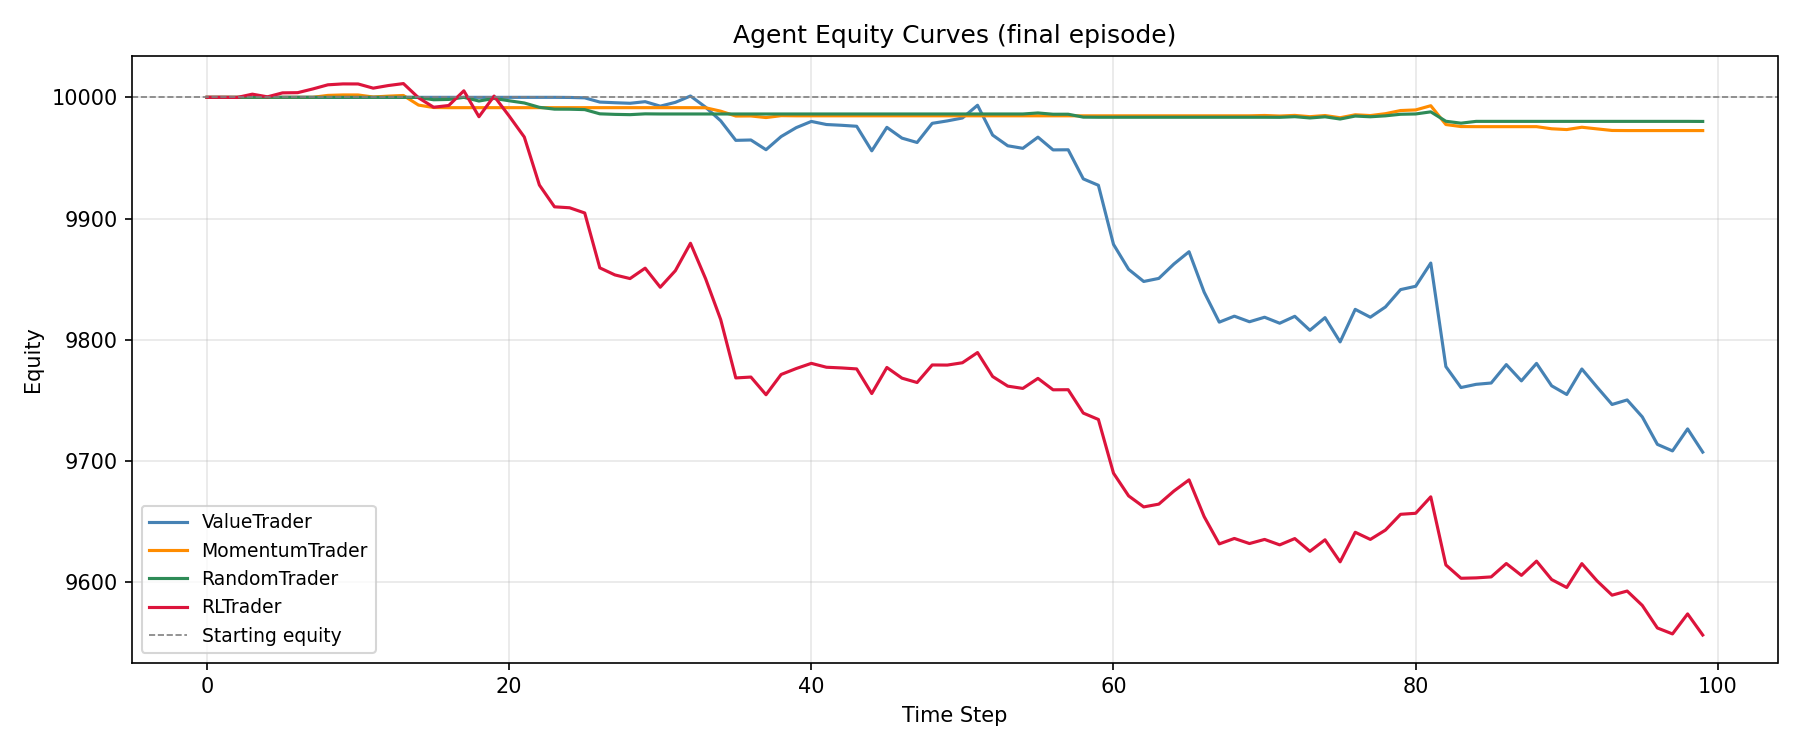
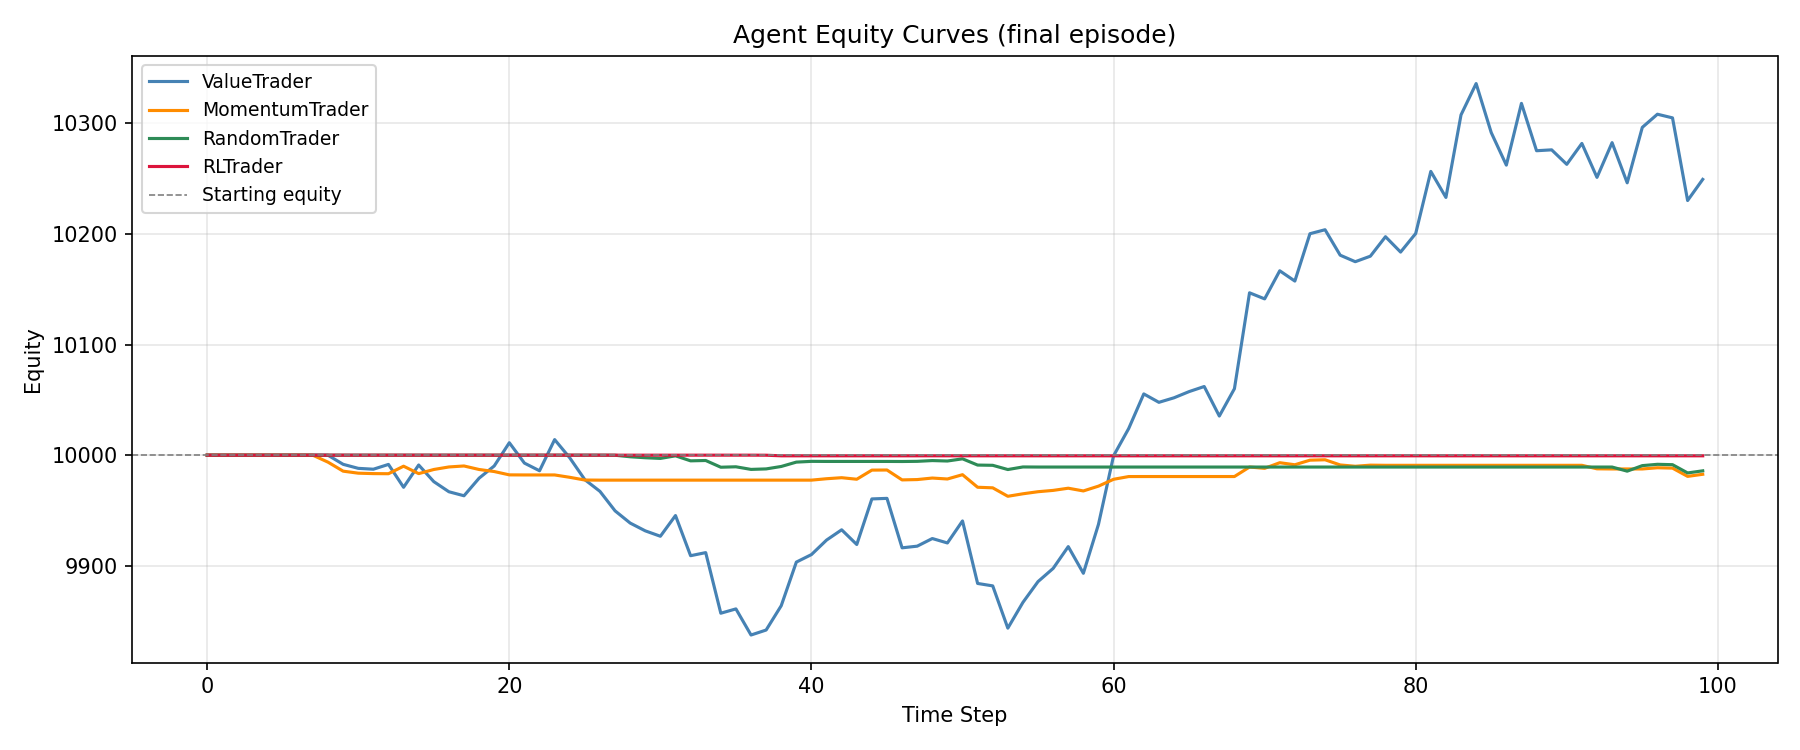
Introduce target network for stable Q-value updates
Implement a target network in the ReinforcementLearningTrader for stable Q-value updates, incorporating Polyak averaging and updating the replay step counter.

Replit-Commit-Author: Agent
Replit-Commit-Session-Id: 3826bf3c-e3fd-4317-b321-61e418fea702
Replit-Commit-Checkpoint-Type: full_checkpoint
Replit-Commit-Event-Id: 96b4a8b2-36d8-47bc-8ea9-22d3b7311bb9
Replit-Helium-Checkpoint-Created: true

diff --git a/project/agents/rl_agent.py b/project/agents/rl_agent.py
@@ -25,6 +25,14 @@ class ReinforcementLearningTrader(TraderAgent):
         self.feature_dim = self.FEATURE_DIM
         self.weights = {a: [0.0] * self.feature_dim for a in self.actions}
 
+        # Target network — same shape as main weights, updated slowly.
+        # TD targets are computed from target_weights so they are stable
+        # across consecutive updates (core DQN idea).
+        self.target_weights = {a: w[:] for a, w in self.weights.items()}
+        self.target_update_tau = 0.01       # Polyak rate for target network
+        self.target_update_interval = 1     # update every N replay steps
+        self.replay_steps = 0               # cumulative replay step counter
+
         # Learning hyper-parameters
         self.alpha = 0.01   # learning rate (smaller than tabular — LFA is noisier)
         self.gamma = 0.95   # discount factor
@@ -180,12 +188,23 @@ class ReinforcementLearningTrader(TraderAgent):
 
     def q_value(self, state_vec, action):
         """
-        Compute Q(s, a) = w_a · x(s) via dot product.
+        Compute Q(s, a) = w_a · x(s) via dot product (live network).
 
         state_vec must be the output of state_to_vector() — a plain list of
         floats of length self.feature_dim.
         """
         w = self.weights[action]
+        return sum(w[i] * state_vec[i] for i in range(self.feature_dim))
+
+    def target_q_value(self, state_vec, action):
+        """
+        Compute Q(s, a) using the target network weights.
+
+        Used exclusively for building TD targets in update_q() so that the
+        bootstrap value is not moving during the weight update — this is the
+        stabilisation mechanism from DQN.
+        """
+        w = self.target_weights[action]
         return sum(w[i] * state_vec[i] for i in range(self.feature_dim))
 
     # ------------------------------------------------------------------
@@ -278,6 +297,7 @@ class ReinforcementLearningTrader(TraderAgent):
         for prev_state, action, reward, new_state in batch:
             self.update_eligibilities(prev_state, action)
             self.update_q(prev_state, action, reward, new_state)
+            self.replay_steps += 1
 
     # ------------------------------------------------------------------
     # Linear Q(λ) weight update
@@ -311,7 +331,7 @@ class ReinforcementLearningTrader(TraderAgent):
         s2_vec = self.state_to_vector(new_state)
 
         current_q = self.q_value(s_vec, action)
-        max_next_q = max(self.q_value(s2_vec, a) for a in self.actions)
+        max_next_q = max(self.target_q_value(s2_vec, a) for a in self.actions)
 
         td_target = reward + self.gamma * max_next_q
         soft_target = (1.0 - self.tau) * current_q + self.tau * td_target
@@ -324,3 +344,11 @@ class ReinforcementLearningTrader(TraderAgent):
             step = self.alpha * td_error * e
             for i in range(self.feature_dim):
                 w[i] += step * s_vec_e[i]
+
+        # Soft-update target network toward main network (Polyak averaging)
+        tau = self.target_update_tau
+        for a in self.actions:
+            tw = self.target_weights[a]
+            mw = self.weights[a]
+            for i in range(self.feature_dim):
+                tw[i] = (1.0 - tau) * tw[i] + tau * mw[i]
